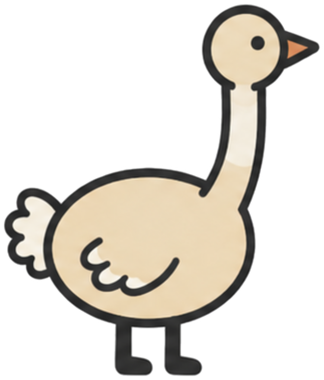
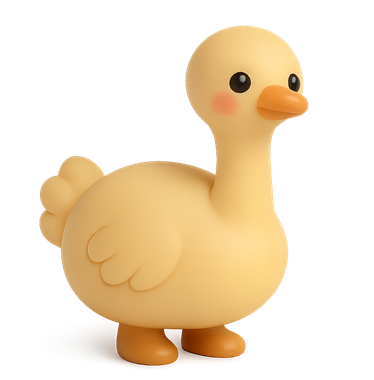
feat: 硬さチェック6タイプのキャラをスクイーズ調で統一
欠番だった開かずのトビラ・棒立ちペンギン・ガチガチロボットを新規生成し、
既存3体は同じ子のままスクイーズ素材へ描き直した。assets/はWeb版と共用のため
Web版の絵も同時に変わる(2026-07-29本人承認済み)。

Claude-Session: https://claude.ai/code/session_01XYEf41F3ZUb8DFMpeKU92h

diff --git a/art-raw/README.md b/art-raw/README.md
@@ -1,0 +1,10 @@
+# 硬さチェック6タイプの原本(1024px・透過)
+
+`scripts/gen-type-art.py` が生成した無加工の原本。トーンの正本は
+squeeze-hunter/ART-STYLE-RULE.md(2026-07-28本人承認・パターンC系統)。
+
+`assets/type-*.png` は、ここから「アルファのbboxで刈り込み → 長辺380pxへ縮小」した配信用。
+描き直すときは原本のほうを差し替えてから、同じ手順で assets/ を作り直すこと。
+
+- 2026-07-29 本人決定: 6体すべてスクイーズ調へ統一。かたさモンスター図鑑とは別系統でよい。
+- 飛べないダチョウは首の長い案を採用(丸いチビ体型に描き直すとヒヨコに見えるため)。
